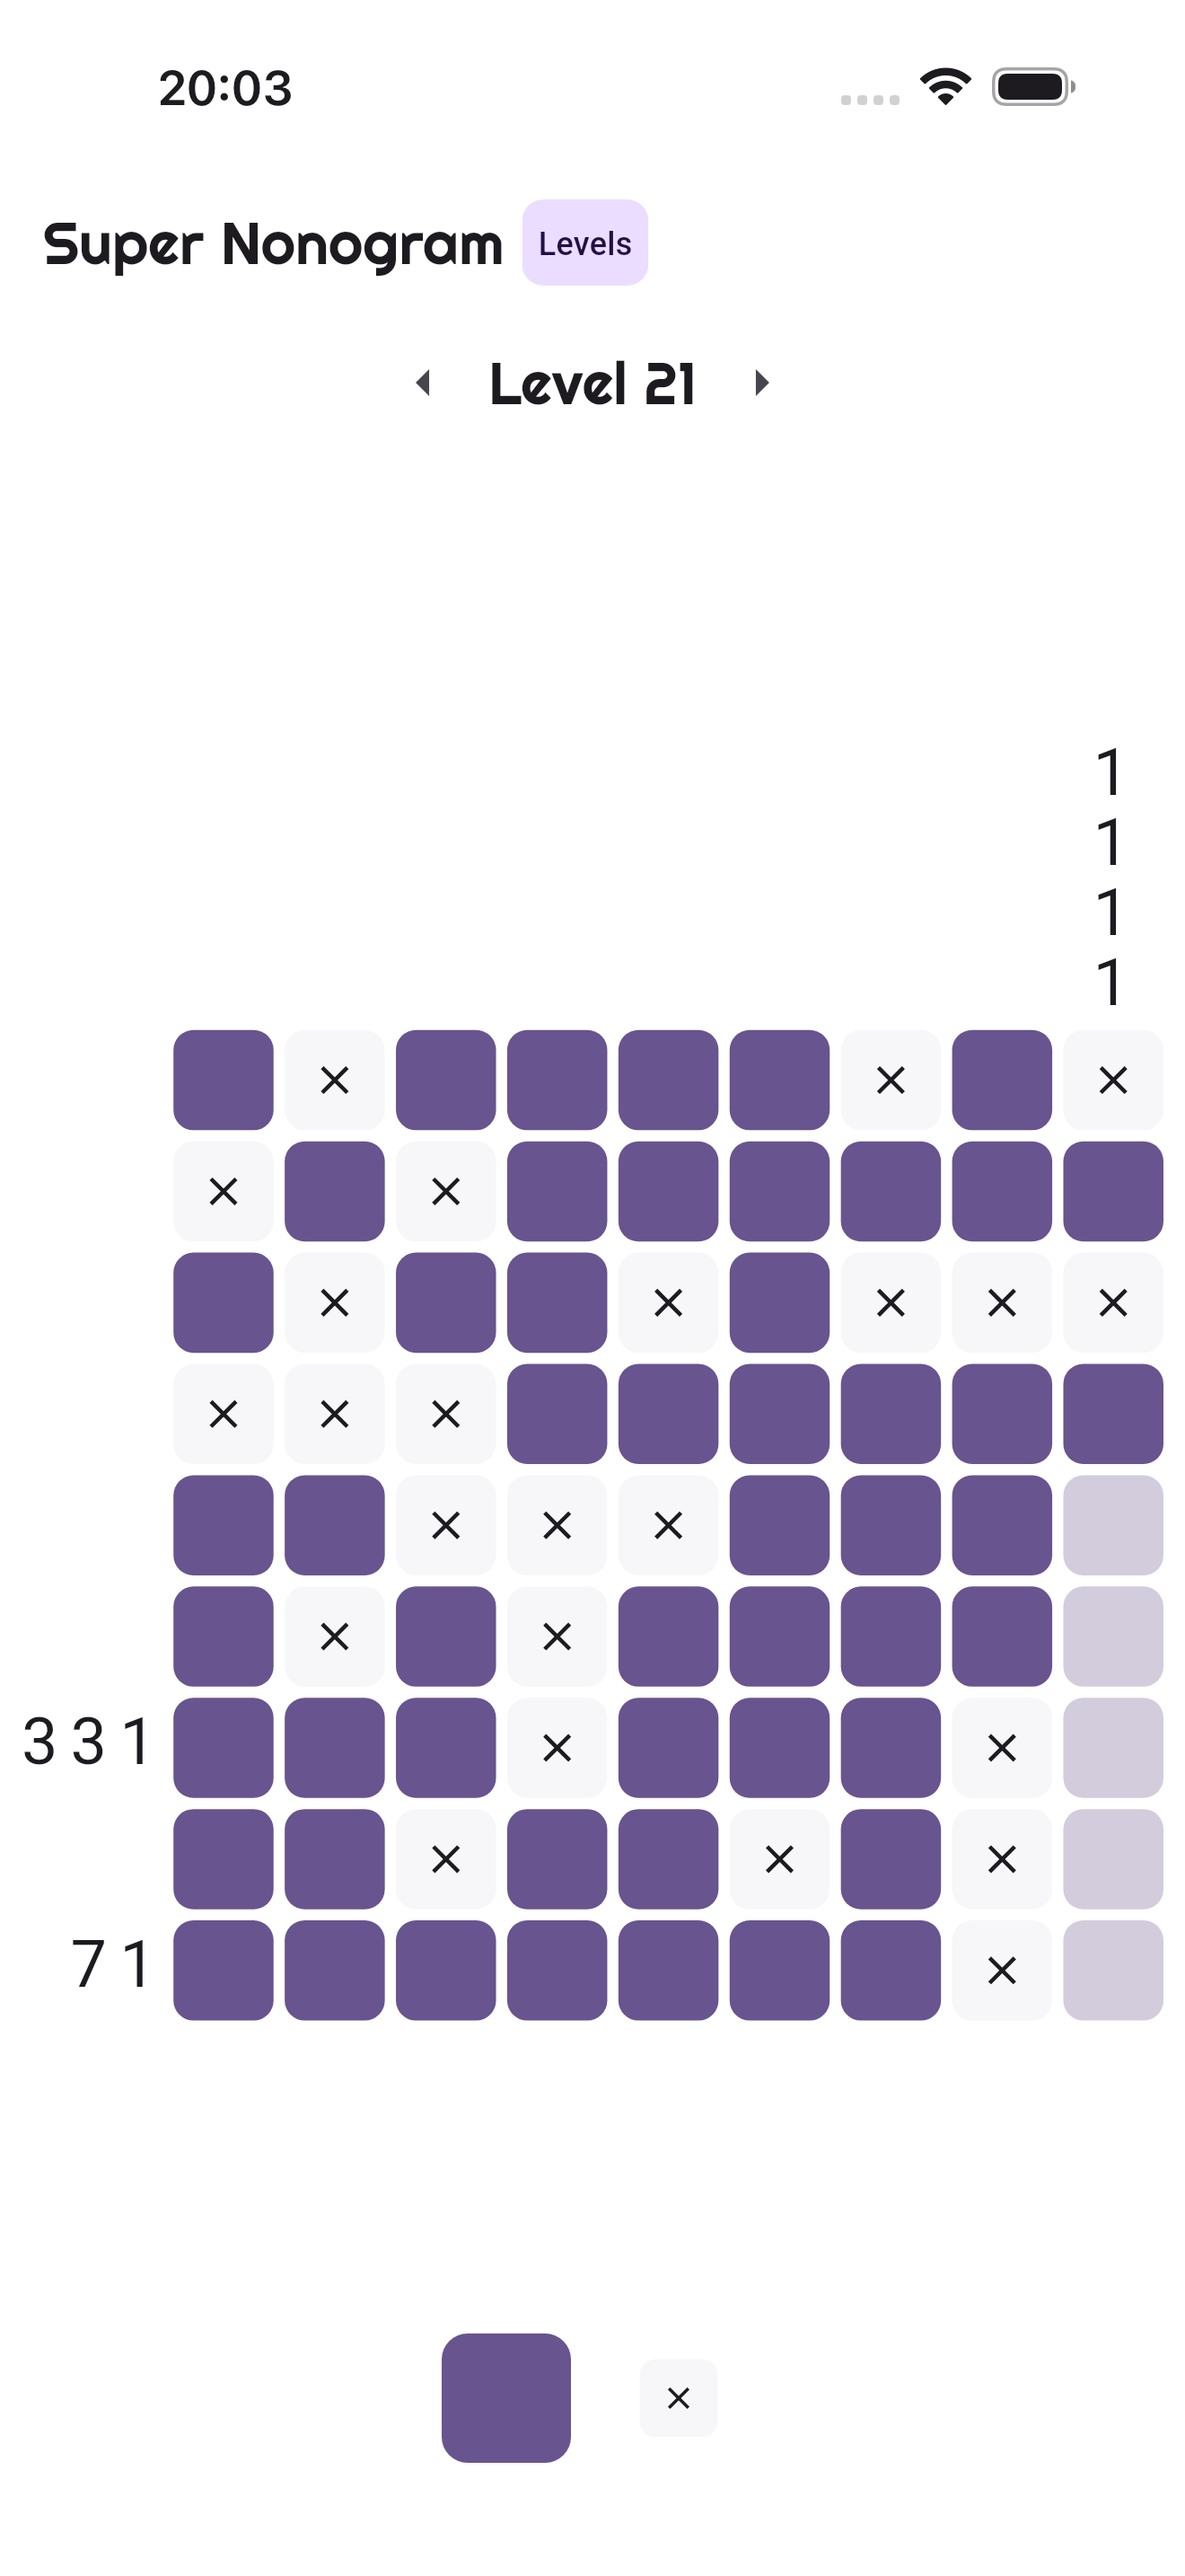
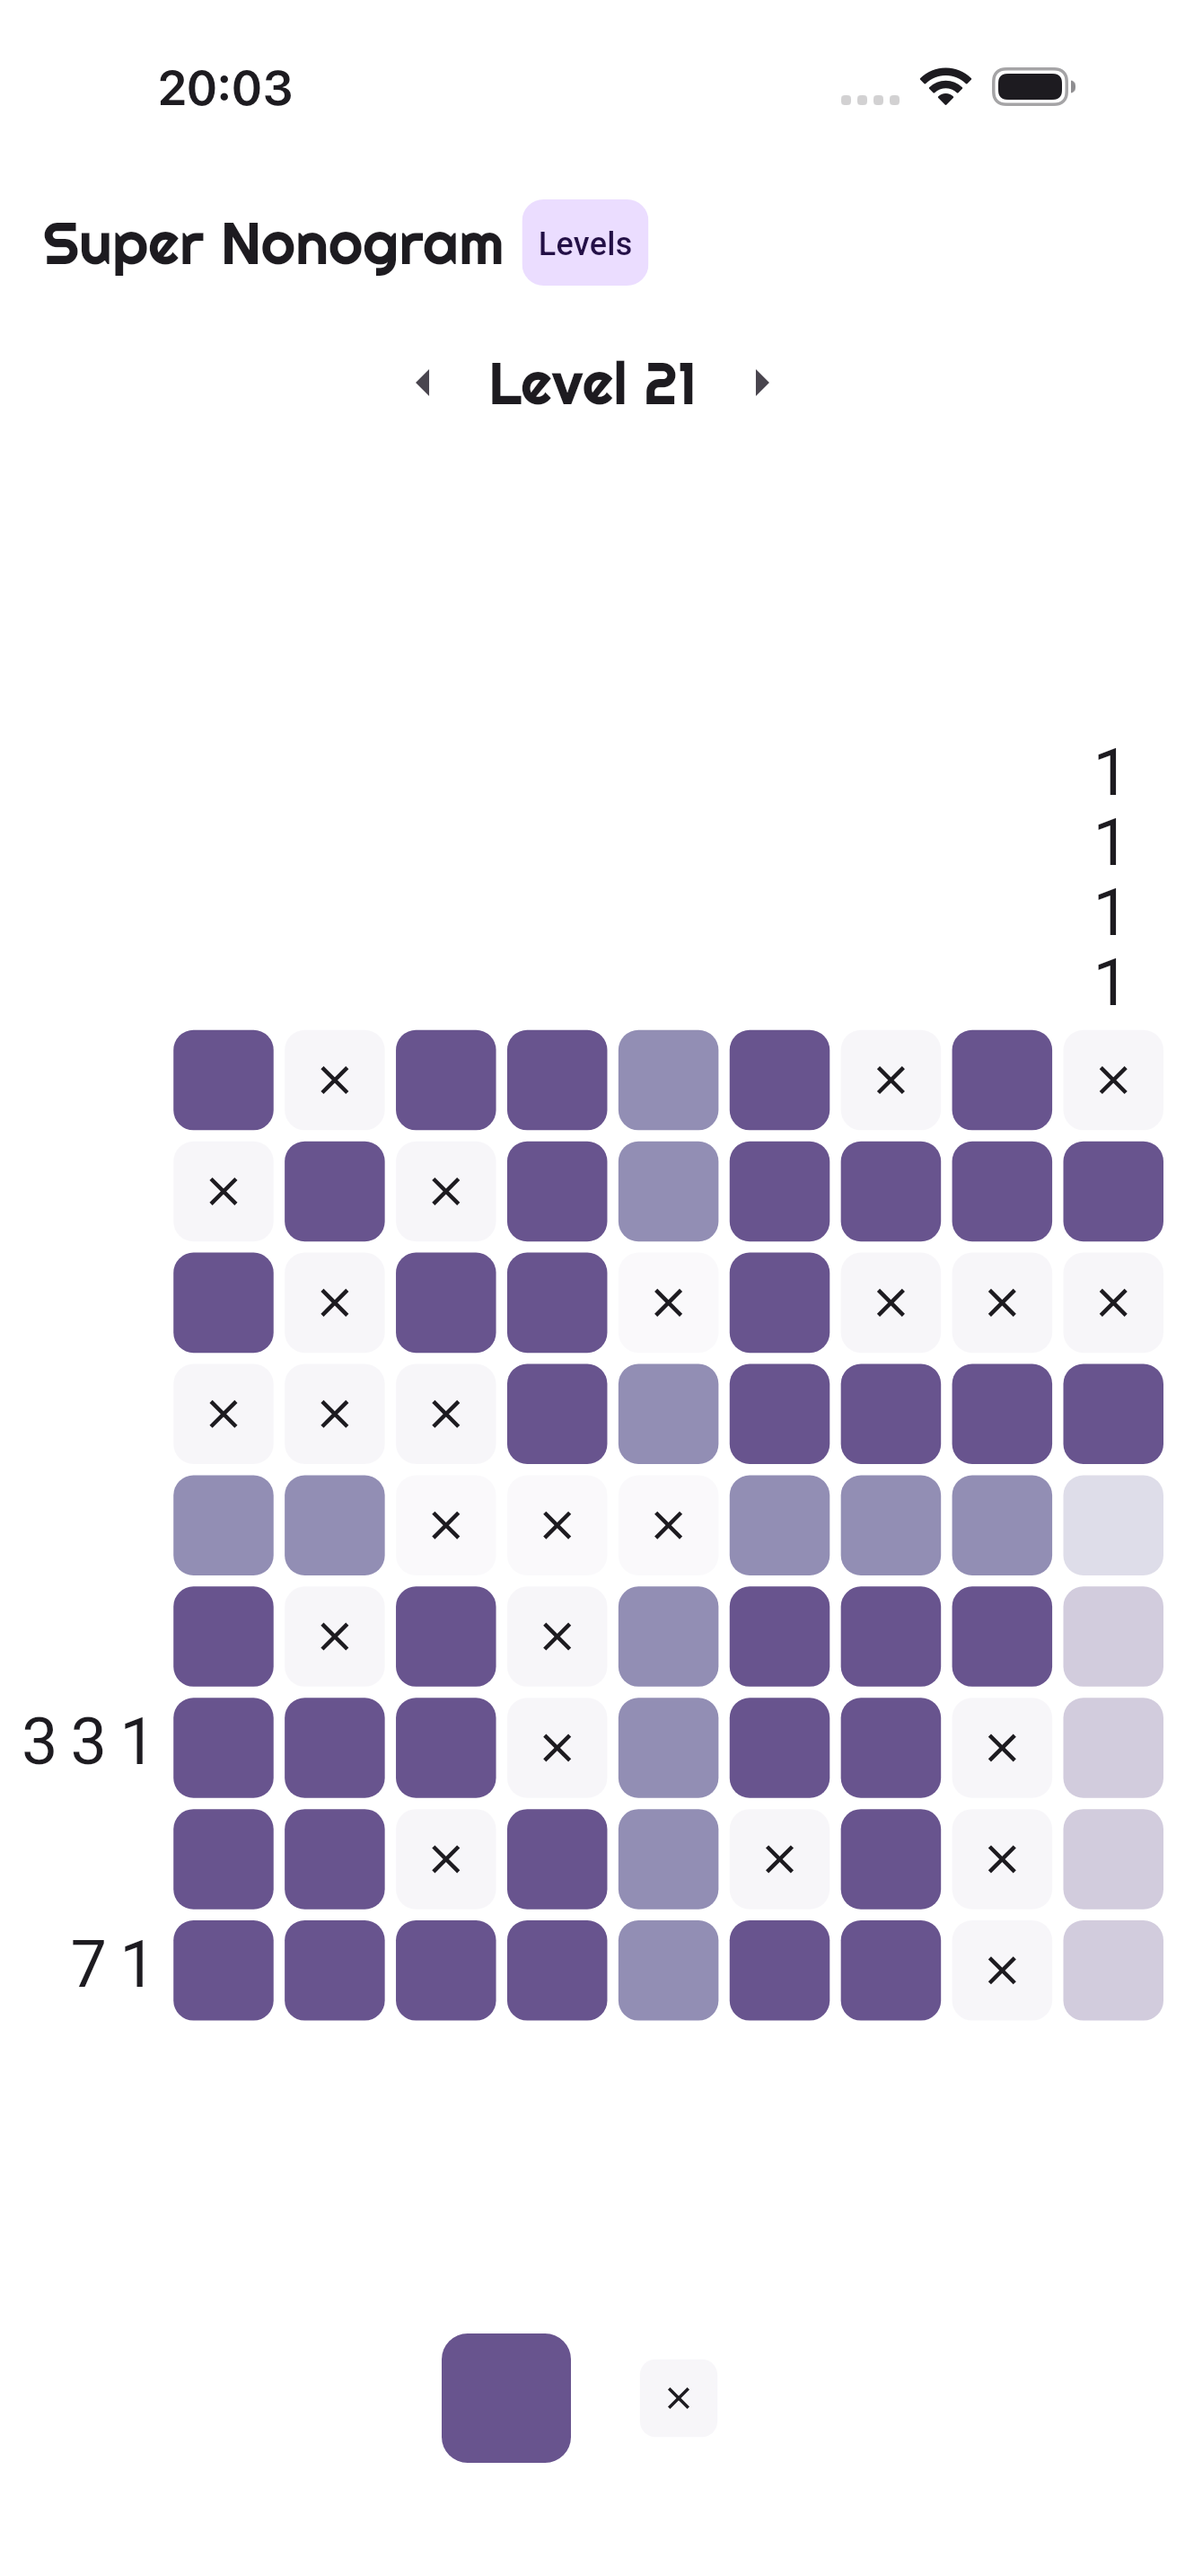
feat: highlight middle column and row

Changed region(s): [[0.497, 0.5275, 0.9008, 0.8068], [0.1242, 0.5586, 0.3417, 0.6206], [0.497, 0.3724, 0.6212, 0.4965]]

diff --git a/lib/board/tile.dart b/lib/board/tile.dart
@@ -64,21 +64,31 @@ class TilePainter extends CustomPainter {
     required ColorScheme colorScheme,
     required bool onOffSwitchLabels,
     required bool highContrast,
+    bool inCenterOfBoard = false,
   }) {
     final tileRRect = RRect.fromRectXY(
       tileRect,
       tileRect.width * 0.2,
       tileRect.height * 0.2,
     );
+    final tileColorAlpha = switch (tileState) {
+      .selected => 1.0,
+      .crossed => 0.05,
+      .empty => 0.3,
+    };
     canvas.drawRRect(
       tileRRect,
       Paint()
         ..style = PaintingStyle.fill
-        ..color = switch (tileState) {
-          .selected => colorScheme.primary,
-          .crossed => colorScheme.primary.withValues(alpha: 0.05),
-          .empty => colorScheme.primary.withValues(alpha: 0.3),
-        },
+        ..color =
+            (inCenterOfBoard
+                    ? Color.lerp(
+                        colorScheme.primary,
+                        colorScheme.secondaryFixedDim,
+                        0.5,
+                      )!
+                    : colorScheme.primary)
+                .withValues(alpha: tileColorAlpha),
     );
     if (highContrast) {
       canvas.drawRRect(

diff --git a/lib/board/board_grid.dart b/lib/board/board_grid.dart
@@ -513,6 +513,7 @@ class UnlabelledBoardGridRenderObject extends RenderBox {
           colorScheme: colorScheme,
           onOffSwitchLabels: onOffSwitchLabels,
           highContrast: highContrast,
+          inCenterOfBoard: _isInCenter(x, width) || _isInCenter(y, height),
         );
       }
     }
@@ -522,5 +523,14 @@ class UnlabelledBoardGridRenderObject extends RenderBox {
   void dispose() {
     _tilesListener?.removeListener(markNeedsPaint);
     super.dispose();
+  }
+
+  bool _isInCenter(int index, int total) {
+    final middle = total ~/ 2;
+    if (total.isOdd) {
+      return index == middle;
+    } else {
+      return index == middle || index == middle - 1;
+    }
   }
 }
